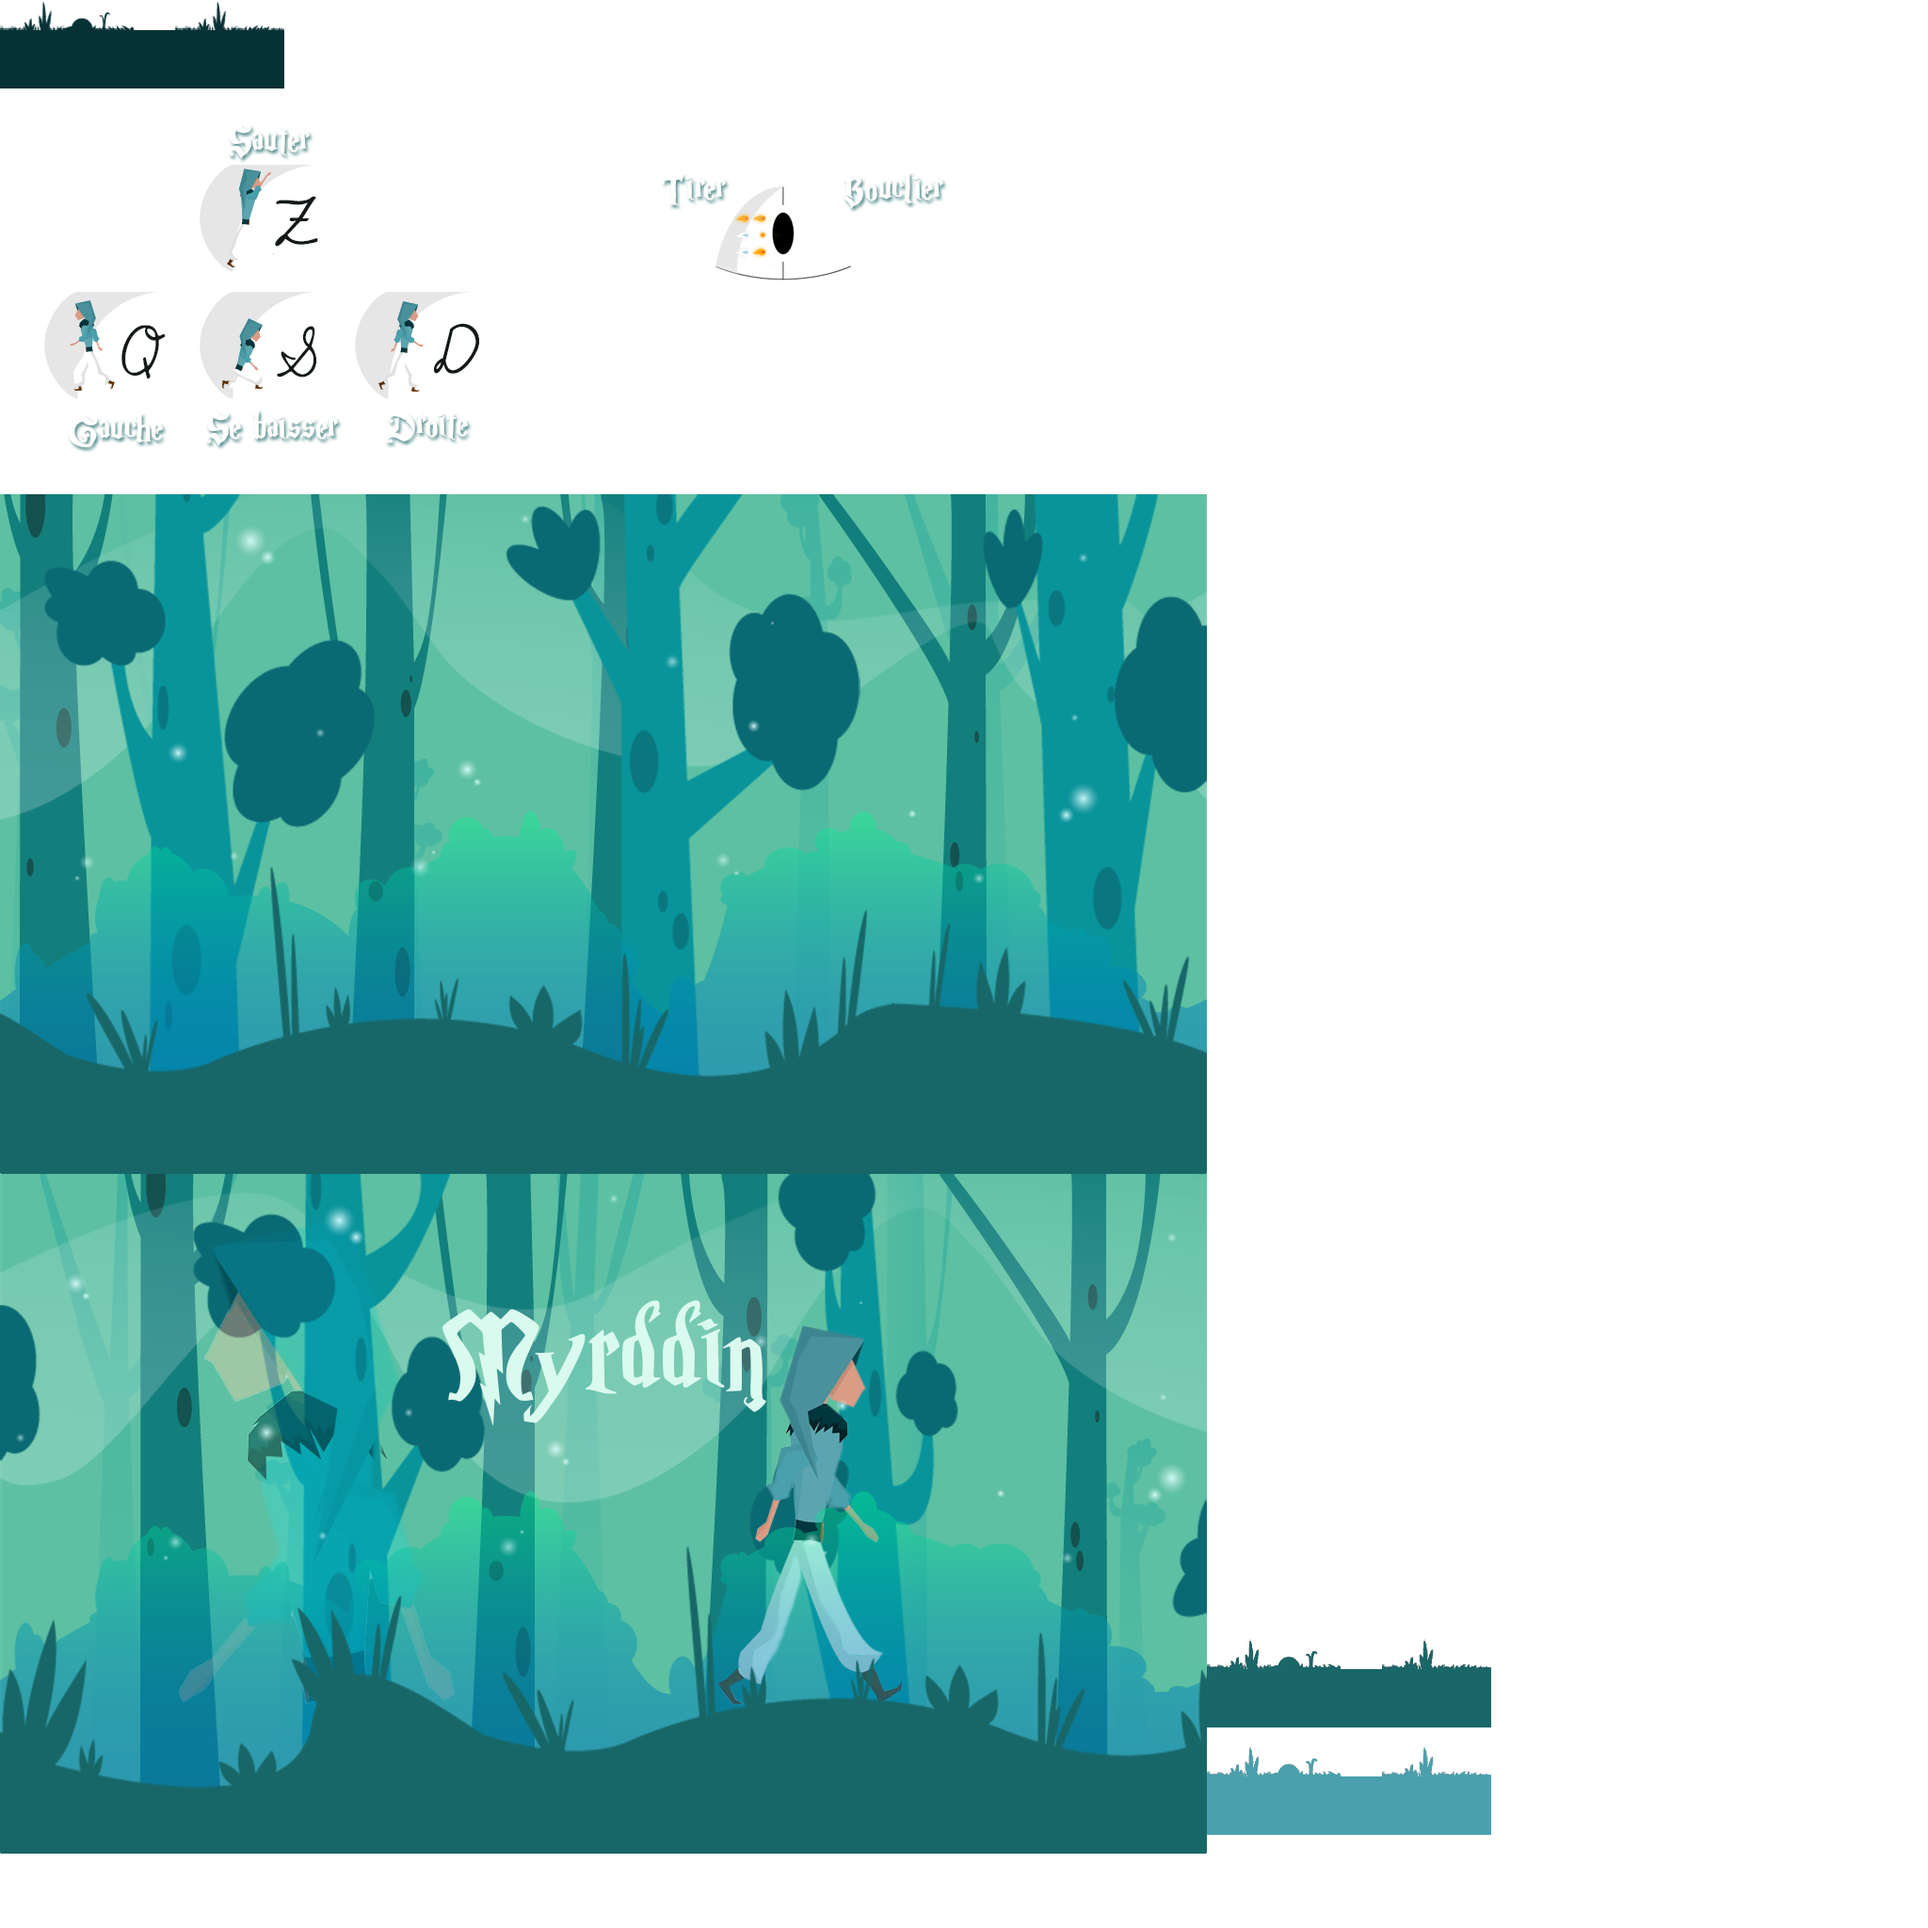
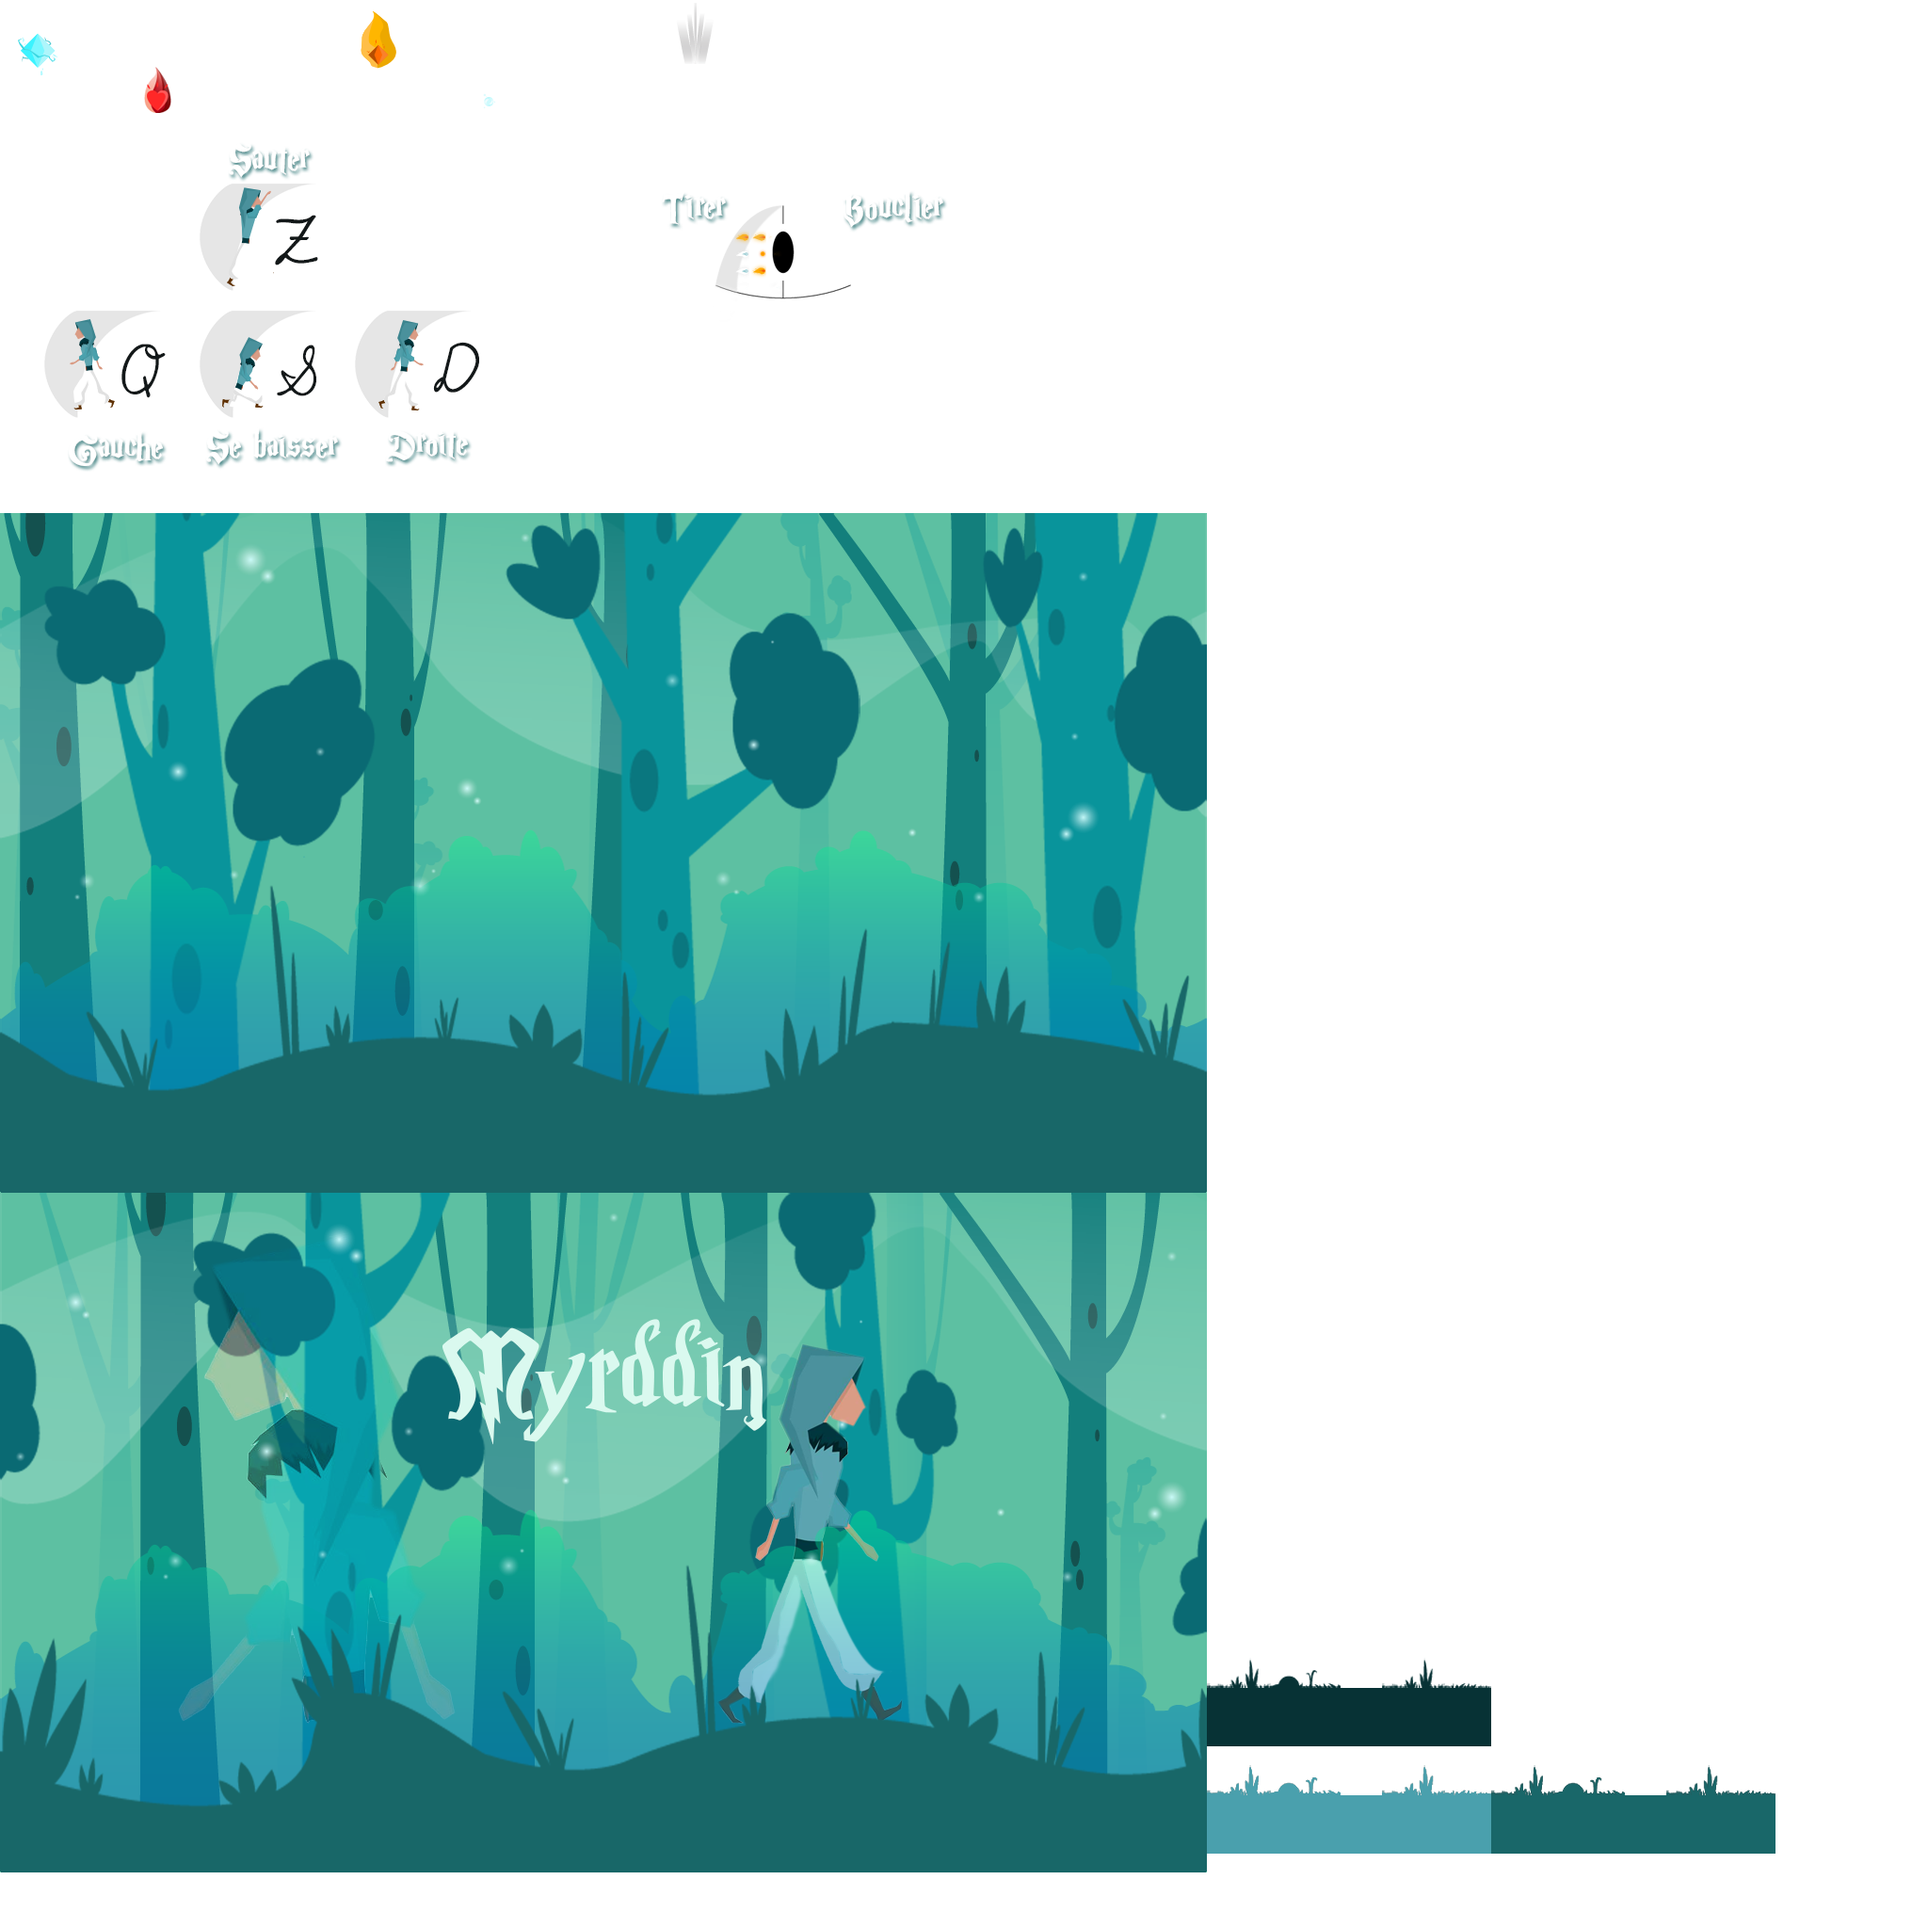
explication des pouvoirs

diff --git a/core/src/fr/imac/myrddin/menu/MenuScreen.java b/core/src/fr/imac/myrddin/menu/MenuScreen.java
@@ -189,12 +189,6 @@ public class MenuScreen extends Stage implements Screen {
 			AtlasRegion backgroundMenuLevel = atlasMenu.findRegion("menu3");
 			table.background(new TextureRegionDrawable(backgroundMenuLevel));
 			
-			//add how to play image
-			AtlasRegion howToPlayImage = atlasMenu.findRegion("t_jouer");
-			Image howToPlay = new Image(howToPlayImage);
-			table.add(howToPlay);
-			table.row();
-			
 			//add return button
 			TextButton textButtonReturn = new TextButton("Retour au menu", this.mainTextButtonStyle);
 			textButtonReturn.addListener(new ChangeListener() {
@@ -205,7 +199,18 @@ public class MenuScreen extends Stage implements Screen {
 								
 				}
 			});
-			table.add(textButtonReturn).padTop(-15);
+			table.add(textButtonReturn).padTop(-20);
+			table.row();
+			
+			//add how to play image
+			AtlasRegion howToPlayImage = atlasMenu.findRegion("t_jouer");
+			Image howToPlay = new Image(howToPlayImage);
+			table.add(howToPlay).padTop(20);
+			table.row();
+			
+			AtlasRegion powersImage = atlasMenu.findRegion("powers_exp");
+			Image powers = new Image(powersImage);
+			table.add(powers).padTop(20);
 		}
 	
 	//count number of files in a repertory
